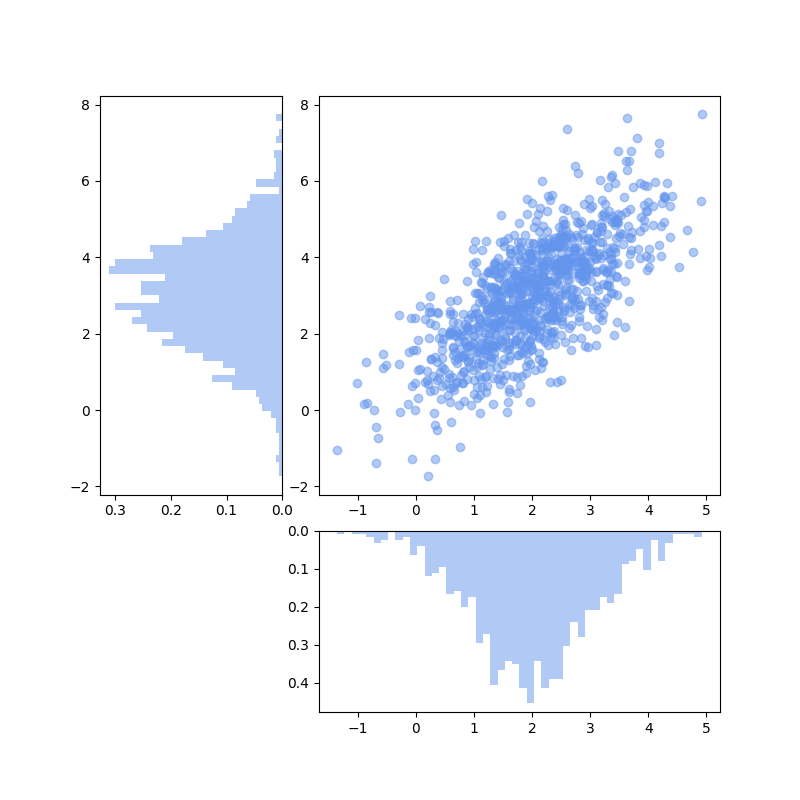
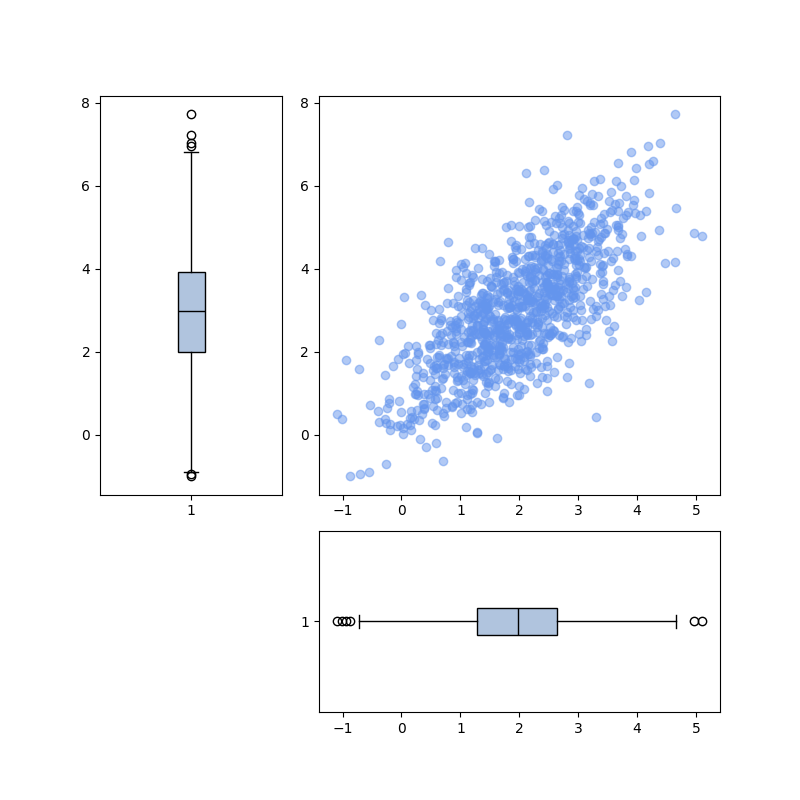
homework2_sem2

diff --git a/homeworks/sem2_hw1/preprocessing.py b/homeworks/sem2_hw1/preprocessing.py
@@ -56,17 +56,20 @@ def get_boxplot_outliers(
     q1 = data[int(data.shape[0] * 0.25)]
     q3 = data[int(data.shape[0] * 0.75)]
     e = (q3 - q1) * 1.5
-    res = np.argwhere((cmp(data, (q1-e).reshape(1, *e.shape)) == 1) * (cmp(data, (q3+e).reshape(1, *e.shape) == 0)))
+    res = np.argwhere((cmp(data, (q1-e).reshape(1, *e.shape)) == False) + (cmp(data, (q3+e).reshape(1, *e.shape))))
 
     return res
 
 
 def key(a):
-    return np.sort(a, axis=0)
+    return a[np.argsort(a[:, 0], axis=0)]
 
 
 def cmp(a, b):
-    return a[:, 1] > b[0, 1]
+    return a[:, 0] > b[0, 0]
+
+
+from vizualize.vizualize_data import*
 
 
 if __name__ == "__main__":
@@ -74,4 +77,7 @@ if __name__ == "__main__":
     cov = [[1, 1], [1, 2]]
     space = 0.2
 
-    print(get_boxplot_outliers(np.random.multivariate_normal(mean, cov, size=1000), key, cmp))
+    data = np.random.multivariate_normal(mean, cov, size=1000)
+
+    print(get_boxplot_outliers(data, key, cmp))
+    visualize_distribution(data, diagram_type=DiagramType.boxplot, path_to_save="./homeworks/sem2_hw1/images/kartinka")

diff --git a/homeworks/sem2_hw1/vizualize/vizualize_data.py b/homeworks/sem2_hw1/vizualize/vizualize_data.py
@@ -85,9 +85,7 @@ def visualize_distribution(
         _visualise(axis_diagram_vertical, data[:, 1], diagram_type, True)
         _visualise(axis_diagram_horizontal, data[:, 0], diagram_type)
         axis_diagram_vertical.invert_xaxis()
-#        axis_diagram_vertical.set_xticks([])
         axis_diagram_horizontal.invert_yaxis()
-#        axis_diagram_horizontal.set_yticks([])
 
     if path_to_save != "":
         if os.path.exists(path_to_save + '.png'):
@@ -105,4 +103,4 @@ if __name__ == "__main__":
     cov = [[1, 1], [1, 2]]
     space = 0.2
 
-    visualize_distribution(np.random.multivariate_normal(mean, cov, size=1000), DiagramType.hist, path_to_save)
+    visualize_distribution(np.random.multivariate_normal(mean, cov, size=1000), DiagramType.boxplot, path_to_save)
